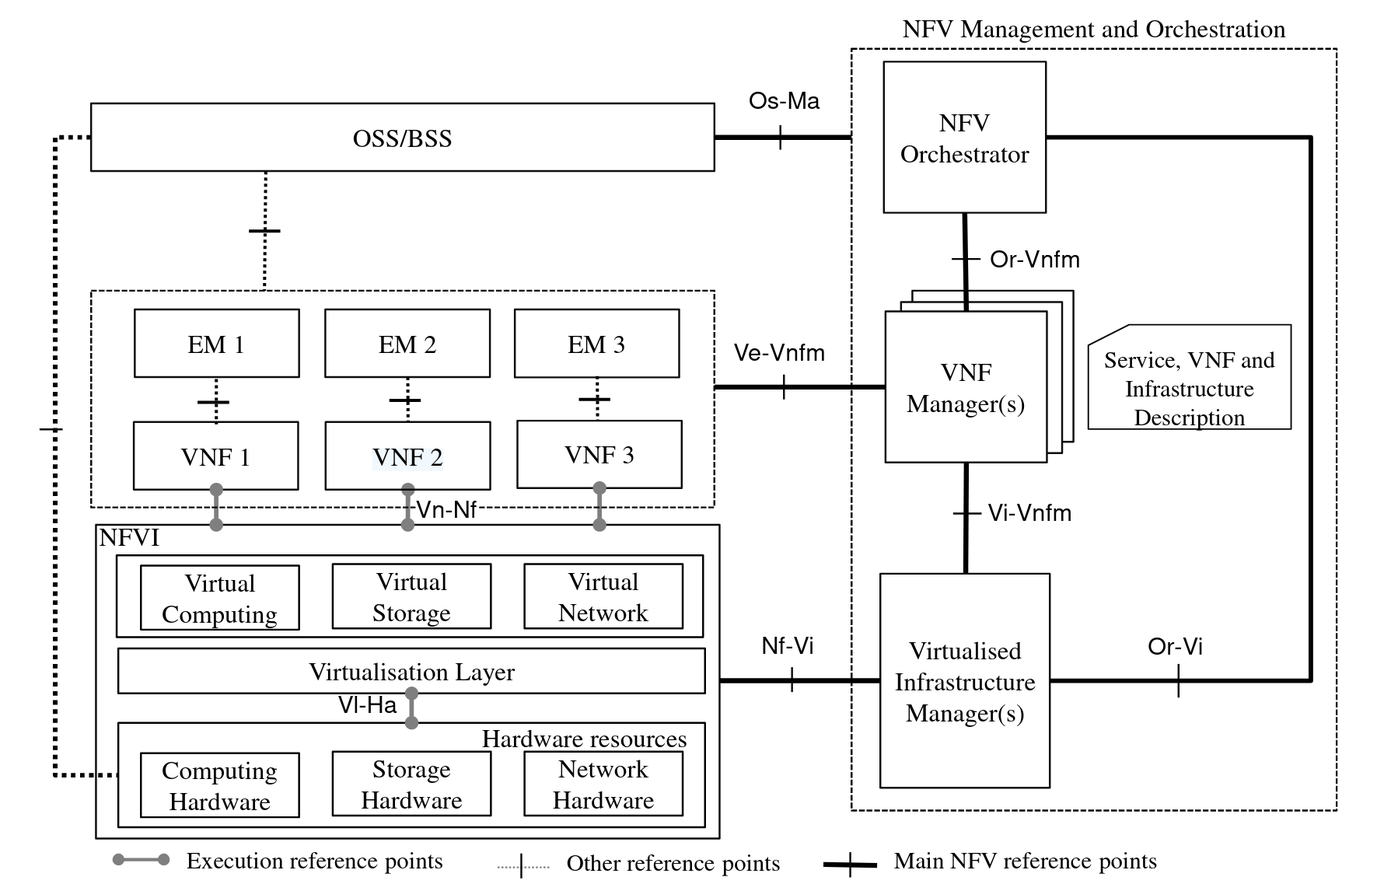
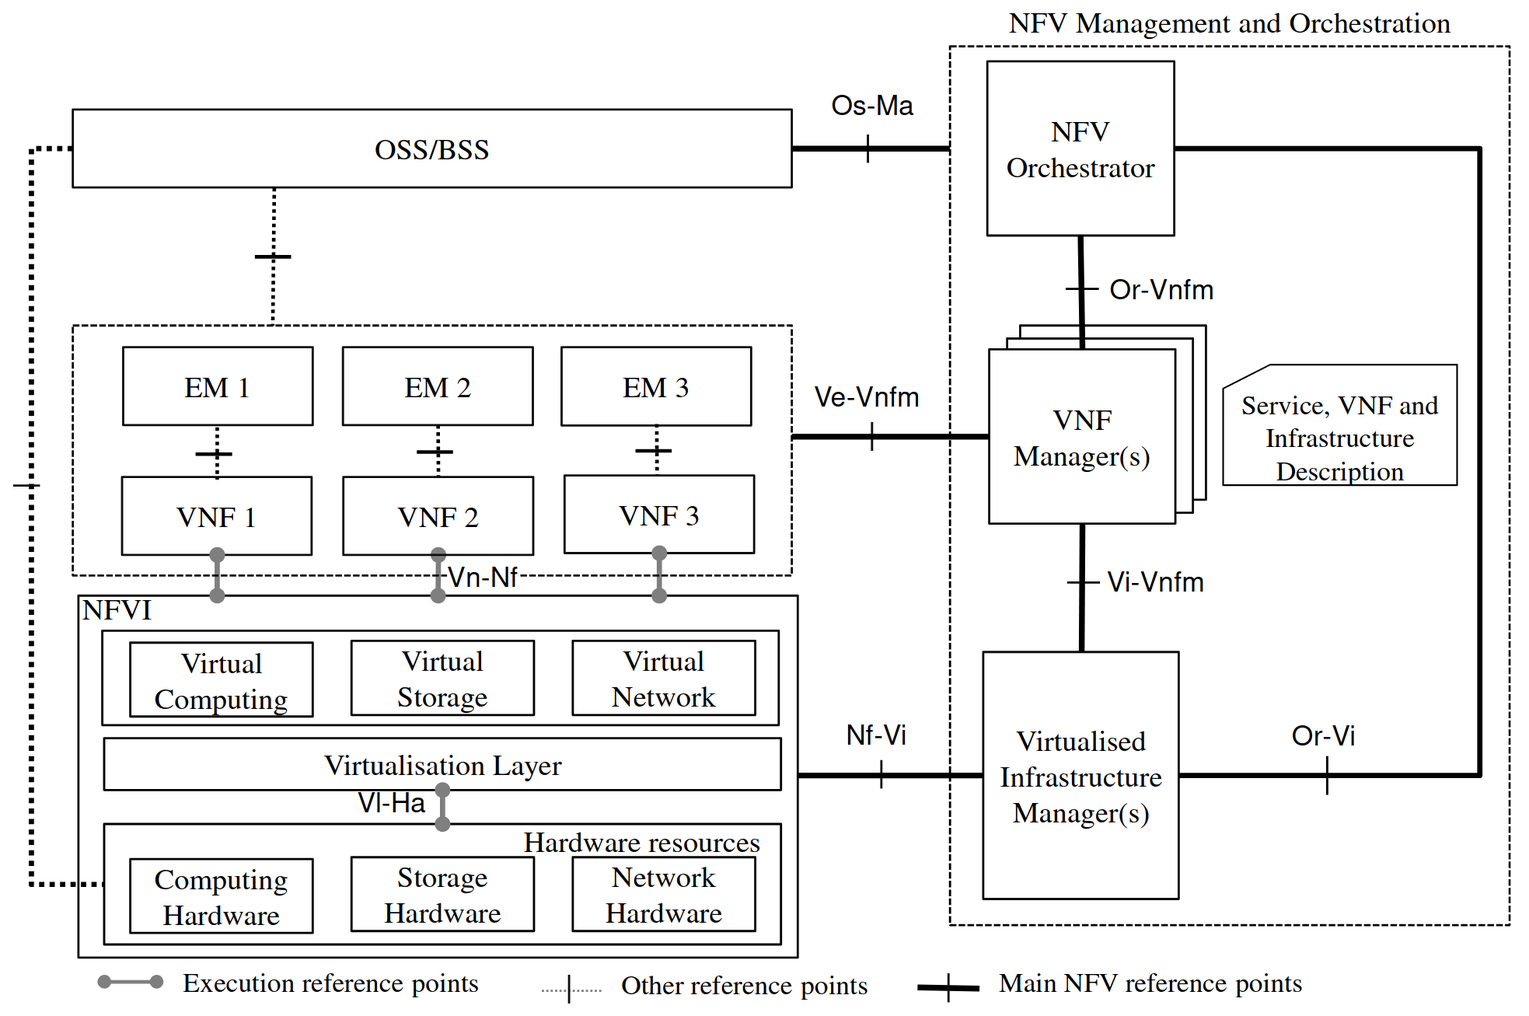
grind

Changed region(s): [[0.0, 0.0, 0.9888, 0.9773], [0.8343, 0.7024, 0.8961, 0.7635], [0.1545, 0.2443, 0.2163, 0.2749]]

diff --git a/chapters/chapter2.tex b/chapters/chapter2.tex
@@ -2,7 +2,7 @@
 \label{chap:background-key-enablers}
 
 \begin{introduction}
-This chapter introduces the key technologies underpinning this work. It begins with 5G networks and their architectural evolution toward 6G, then covers \ac{nfv} and \ac{sdn} as the programmability substrate, Network Slicing as the multi-service isolation mechanism, and \ac{mec} as the edge execution model. It closes with an overview of multi-domain federation and its open challenges.
+This chapter introduces the key technologies underpinning this work. It begins with 5G networks and their architectural evolution toward 6G, then covers \ac{nfv} and \ac{sdn} as the programmability facilitators, Network Slicing as the multi-service isolation mechanism, and \ac{mec} as the edge execution model. It closes with an overview of multi-domain federation and its open challenges.
 \end{introduction}
 
 % Edge deployments exist and have hard constraints (MEC)
@@ -21,14 +21,22 @@ This chapter introduces the key technologies underpinning this work. It begins w
 
 \section{5G Networks}
 
-Until \ac{5g}, each successive generation of mobile networks delivered incremental gains in throughput and reach while preserving the same fundamental paradigm: a purpose-built, hardware-centric network optimized for a single dominant use case. \ac{5g} breaks from this pattern. Rather than simply extending data rates, 5G was designed from the ground up as a programmable, multi-service platform capable of simultaneously serving heterogeneous vertical industries with vastly different performance requirements.
+Until \ac{5g}, each successive generation of mobile networks delivered incremental gains in throughput and reach while preserving the same fundamental paradigm: a purpose-built, hardware-centric network optimized for a single traffic type. 5G was designed from the ground up as a programmable, multi-service platform capable of simultaneously serving heterogeneous vertical industries with vastly different performance requirements, instead of simply aiming to increase throughput and extend data rates \cite{ZieglerArchitecturevision5Gera2016}.
 
 To address these diverse requirements, the ITU-R IMT-2020 framework defined three canonical usage scenarios: \ac{embb}, targeting peak data rates in the tens of gigabits per second; \ac{urllc}, targeting sub-millisecond latency and near-perfect reliability for mission-critical applications; and \ac{mmtc}, supporting connection densities of up to one million devices per square kilometer for \ac{iot} deployments \cite{IMTFrameworkoverallobjectivesfuturedevelopment2015}. The 5G system achieves this flexibility through the adoption of key enabling technologies such as \ac{nfv}, \ac{sdn}, Network Slicing, and \ac{mec}, that transform the network into a software-defined, service-based, distributed infrastructure \cite{HermosillaDeployment5GNetworkApplicationsMultidomain2022, antonyfranklin2020MultiaccessEdgeComputing}.
 
 % 5g arch
-Figure \ref{fig:5g_architecture} shows the reference architecture for the service-based architecture of the \ac{5g} core, where each function exposes REST-based \acp{api} over the Service-Based Interface. The upper functions belong to the control plane, while the bottom functions relate to the user plane.
+Figure \ref{fig:5g_architecture} shows the reference architecture for the service-based architecture of the \ac{5g} core, where each function exposes REST-based \acp{api} over the Service-Based Interface. The upper functions belong to the control plane, while the bottom functions relate to the user plane. 
 
-The most relevant network functions of the \ac{5g} core are as follows:
+\begin{figure}[ht]
+    \centering
+    \includegraphics[width=0.9\textwidth]{figs/02/5g-reference.png}
+    \caption{5G Core Service Based Architecture \cite{3GPP5GSystemarchitecture5GSystem2026}}
+    \label{fig:5g_architecture}
+\end{figure}
+
+The most relevant network functions of the \ac{5g} core are briefly described as follows \cite{3GPP5GSystemarchitecture5GSystem2026}:
+
 \begin{itemize}
     \item The \ac{upf} is responsible for user plane packet handling such as routing/forwarding, marking and \ac{qos} enforcing;
     \item The \ac{amf} manages registration, connection, mobility management and authorization and authentication;
@@ -43,13 +51,7 @@ The most relevant network functions of the \ac{5g} core are as follows:
     \item The \ac{af} represents external or operator applications which are able to interact with the \ac{5g} core via the \ac{nef}.
 \end{itemize}
 
-
-\begin{figure}[ht]
-    \centering
-    \includegraphics[width=0.8\textwidth]{figs/02/5g-reference.png}
-    \caption{5G Service Based Architecture \cite{3GPP5GSystemarchitecture5GSystem2026}}
-    \label{fig:5g_architecture}
-\end{figure}
+Complementing the core, the \ac{ran} is responsible for the radio interface between \acp{ue} and the network, handling wireless transmission, scheduling, and handover. In the 5G architecture, the \ac{ran} is realized by \acp{gnb}, which connect to the core via the NG interface and to one another via the Xn interface for mobility coordination \cite{3GPPNGRANArchitecturedescription}.
 
 \subsection{5G-Advanced and the 6G Vision}
 
@@ -71,15 +73,20 @@ The ITU-R defines six usage scenarios for IMT-2030, expanding upon the three sce
 \section{Network Functions Virtualization}
 
 % intro and driving factors
-Traditional network architectures relied heavily on proprietary hardware appliances for each specific function, such as firewalls, routers, and load balancers. These hardware-based solutions are not only costly but also inflexible, making it challenging to scale and adapt to dynamic network demands. 
+Traditional network architectures relied heavily on proprietary hardware appliances for each specific function, such as firewalls, routers, and load balancers. These hardware-based solutions are not only costly but also inflexible, making it challenging to scale and adapt to dynamic network demands \cite{ChiosiNetworkFunctionsVirtualisationIntroductionBenefits}. 
 
-\ac{nfv} allowed the transition from hardware-dependent network functions to virtualized software solutions. By leveraging virtualization techniques, \ac{nfv} allows for dynamic deployment of various network functions on \ac{cots} hardware as \acp{vnf}. This approach decouples the functions of the network from proprietary hardware, enabling them to run on standard servers, storage, and networking equipment.
+% core concept
+\ac{nfv} allowed the transition from hardware-dependent network functions to virtualized software solutions. By leveraging virtualization techniques, \ac{nfv} allows for dynamic deployment and lifecycle management of various network functions on \ac{cots} hardware as \acp{vnf}. This approach decouples the functions of the network from proprietary hardware, enabling them to run on standard servers, storage, and networking equipment.
 
+% advantages
 \ac{nfv} brings several advantages over hardware-centric approaches \cite{ETSINetworkFunctionsVirtualisationNFVArchitectural2014}. \acp{vnf} run on \ac{cots} hardware, eliminating dependency on proprietary appliances and reducing both capital and operational expenditure. Functions can be deployed, scaled, and relocated dynamically across geographically distributed sites, enabling a degree of flexibility that static hardware cannot match. Standardized, open interfaces promote a multi-vendor ecosystem where \acp{vnf} and infrastructure components from different providers can coexist, and the rapid instantiation of new services reduces time-to-market significantly.
 
-\subsection{NFV Reference Architecturxe}
+% cnf shoutout
+In the recent years, the dominant virtualization technologies have since shifted from hypervisor-managed virtual machines to containers orchestrated by platforms such as Docker\footnote{https://www.docker.com/} and Kubernetes\footnote{https://kubernetes.io/}, giving rise to \acp{cnf}: network functions decomposed into microservices and managed through cloud-native orchestration primitives. Container-based deployments offer lower per-instance overhead, faster startup times, and compatibility with \ac{cicd} deployment workflows \cite{ValantasisExperimentalEvaluationOrchestrationSoftwareVirtual2021}.
 
-Figure \ref{fig:nfv_reference_architecture} presents the \ac{etsi} \ac{nfv} reference architecture, which organises the framework into three top-level domains --- \acp{vnf}, \ac{nfvi}, and \ac{mano} --- and exposes the internal components that realise each. \acp{vnf} are software implementations of network functions that execute on \ac{nfvi} resources; the \ac{nfvi} encompasses the compute, storage, and networking hardware and software that host them. The \ac{mano} domain coordinates the lifecycle of both, and is itself subdivided into three building blocks:
+\subsection{NFV Reference Architecture}
+
+Figure \ref{fig:nfv_reference_architecture} presents the \ac{etsi} \ac{nfv} reference architecture, which organises the framework into three main domains: the \acp{vnf}, the \ac{nfvi}, and the \ac{mano}. \acp{vnf} are software implementations of network functions that execute on \ac{nfvi} resources; the \ac{nfvi} encompasses the compute, storage, and networking hardware and software that host them. The \ac{mano} domain coordinates the lifecycle of both \acp{vnf} and \ac{nfvi} resources, and is itself subdivided into three building blocks:
 
 \begin{itemize}
     \item \emph{\acp{vnfm}}: responsible for managing the lifecycle of \acp{vnf}, including instantiation, scaling, updating, and termination. It interacts with both the \ac{vim} and \ac{nfvo} to ensure the \ac{vnf} operates as intended within the \ac{nfv} infrastructure.
@@ -91,17 +98,18 @@ The other components of the framework are the \ac{oss}/\ac{bss}, which allows fo
 
 \begin{figure}[ht]
     \centering
-    \includegraphics[width=0.8\textwidth]{figs/02/nfv-reference.png}
+    \includegraphics[width=0.9\textwidth]{figs/02/nfv-reference.png}
     \caption{ETSI NFV reference architecture \cite{ETSINetworkFunctionsVirtualisationNFVArchitectural2014}}
     \label{fig:nfv_reference_architecture}
 \end{figure}
+
 
 
 \section{Software Defined Networking}
 
 In conventional network architectures, routing decisions, forwarding table computation, and policy enforcement are embedded within each device and managed independently through vendor-specific interfaces. With no global view of network state and per-device configuration as the only operational primitive, adapting to traffic demands or failures is slow and costly.
 
-\ac{sdn} addresses these limitations by decoupling the control plane, responsible for computing forwarding decisions and enforcing network-wide policies, from the data plane, responsible for packet forwarding. Network intelligence is consolidated in a logically centralized controller, which maintains a global view of the network topology and programs forwarding behavior across the infrastructure through standardized interfaces. This separation transforms the network into a programmable, software-driven resource that can be dynamically configured to meet changing service demands. By holding a consistent model of the full topology, the controller enables network-wide optimizations, such as coordinated policy enforcement, real-time flow rerouting, and automated provisioning, that are impractical when control is fragmented across independent devices . Furthermore, standardized southbound interfaces allow the controller to manage forwarding elements from heterogeneous vendors, and northbound \acp{api} expose network resources to higher-level orchestration systems, enabling tight coordination with complementary frameworks such as \ac{nfv}.
+\ac{sdn} addresses these limitations by decoupling the control plane, responsible for computing forwarding decisions and enforcing network-wide policies, from the data plane, responsible for packet forwarding. Network intelligence is consolidated in a logically centralized controller, which maintains a global view of the network topology and programs forwarding behavior across the infrastructure through standardized interfaces. This separation transforms the network into a programmable, software-driven resource that can be dynamically configured to meet changing service demands. By holding a consistent model of the full topology, the controller enables network-wide optimizations, such as coordinated policy enforcement, real-time flow rerouting, and automated provisioning, that are impractical when control is fragmented across independent devices. Furthermore, standardized southbound interfaces allow the controller to manage forwarding elements from heterogeneous vendors, and northbound \acp{api} expose network resources to higher-level orchestration systems, enabling tight coordination with complementary frameworks such as \ac{nfv}.
 
 Beyond these core properties, \ac{sdn} enables:
 \begin{itemize}
@@ -138,6 +146,13 @@ The heterogeneous nature of 5G use cases imposes a fundamental tension on networ
 
 A network slice is an end-to-end logical network instance comprising a set of network functions and associated resources (compute, storage, and transport) configured and isolated to satisfy the specific \acp{kpi} of a given service or customer vertical. Each slice spans the full network stack, from the \ac{ran} through the transport domain to the 5G core, and is defined by a \ac{nst}, which captures the performance targets, resource budgets, and topology constraints that govern instantiation and operation. Slices are isolated from one another across the data, control, and management planes, ensuring that faults and congestion within one slice cannot propagate to others.
 
+\begin{figure}[ht]
+    \centering
+    % \includegraphics[width=0.85\textwidth]{figs/02/network-slicing-concept.pdf}
+    \caption{Network slicing concept: multiple isolated logical networks over shared physical infrastructure, enabled by \ac{nfv} (per-slice \ac{vnf} instances) and \ac{sdn} (per-slice flow isolation).}
+    \label{fig:network_slicing_concept}
+\end{figure}
+
 From an operational standpoint, slicing yields several properties that a monolithic design cannot provide \cite{3GPP5GSystemarchitecture5GSystem2026}:
 \begin{itemize}
     \item \emph{Logical Isolation}: Each slice operates as an independent network instance, ensuring that traffic, faults, and resource contention within one slice do not affect others;
@@ -147,7 +162,7 @@ From an operational standpoint, slicing yields several properties that a monolit
     \item \emph{Efficient Resource Utilization}: Resources can be dynamically allocated and reallocated across slices according to demand, improving overall infrastructure efficiency compared to statically partitioned, purpose-built networks.
 \end{itemize}
 
-Network slicing is not an independent abstraction but is technically realized through the joint application of \ac{nfv} and \ac{sdn}. \ac{nfv} provides the virtualization substrate that enables per-slice network function instances to be created, configured, and terminated on shared \ac{cots} hardware. Without \ac{nfv}, deploying independent function sets per slice would require dedicated physical appliances for each service type, negating the shared-infrastructure principle that slicing depends upon. The \ac{nfvo} and \ac{vnfm} components of the \ac{mano} framework orchestrate the lifecycle of these per-slice \acp{vnf}, while the \ac{vim} allocates and tracks the compute, storage, and networking resources budgeted to each slice instance.
+Network slicing is not an independent abstraction but is technically realized through the joint application of \ac{nfv} and \ac{sdn}. \ac{nfv} provides the virtualization layer that enables per-slice network function instances to be created, configured, and terminated on shared \ac{cots} hardware. Without \ac{nfv}, deploying independent function sets per slice would require dedicated physical appliances for each service type, negating the shared-infrastructure principle that slicing depends upon. The \ac{nfvo} and \ac{vnfm} components of the \ac{mano} framework orchestrate the lifecycle of these per-slice \acp{vnf}, while the \ac{vim} allocates and tracks the compute, storage, and networking resources budgeted to each slice instance.
 
 \ac{sdn} complements this by enforcing per-slice traffic isolation and steering in the data plane. The \ac{sdn} controller programs forwarding rules that segregate slice-specific flows across the shared physical underlay, and enforces policies that prevent cross-slice interference at the transport layer. This mechanism extends the control/data plane separation already present in the 5G core (where the \ac{smf} programs the \ac{upf} via the N4 interface) to an end-to-end scope spanning the \ac{ran}, transport, and core simultaneously.
 
@@ -155,9 +170,9 @@ Together, \ac{nfv} governs the function plane (instantiation, scaling, and termi
 
 \begin{figure}[ht]
     \centering
-    % \includegraphics[width=0.85\textwidth]{figs/02/network-slicing-concept.pdf}
-    \caption{Network slicing concept: multiple isolated logical networks over shared physical infrastructure, enabled by \ac{nfv} (per-slice \ac{vnf} instances) and \ac{sdn} (per-slice flow isolation).}
-    \label{fig:network_slicing_concept}
+    % \includegraphics[width=0.85\textwidth]{figs/02/network-slicing-management.pdf}
+    \caption{Network slicing management}
+    \label{fig:network_slicing_management}
 \end{figure}
 
 \subsection{Network Slicing Architecture}
@@ -175,7 +190,7 @@ Slice selection is handled at registration time. The \ac{ue} includes a requeste
 
 An end-to-end \ac{nsi} is composed of multiple \acp{nssi}, one per network domain - \ac{ran}, transport and core. The \ac{ran} sub-slice configures the radio resources and \ac{ran} functions assigned to the slice; the transport sub-slice establishes the connectivity between the \ac{ran} and the core; the core sub-slice instantiates the relevant 5G core network functions with the appropriate configurations and policies. Sub-slices may be shared across multiple \acp{nsi} where isolation requirements permit, enabling more efficient use of underlying resources.
 
-The lifecycle of a network slice spans five phases: preparation, in which the \ac{nst} is onboarded and feasibility is verified; instantiation, in which the constituent \acp{nssi} are created and configured; activation, in which the slice begins carrying live traffic; operation, in which the slice is continuously monitored and dynamically adapted to changing demand; and decommissioning, in which the slice is gracefully terminated and its resources released. Lifecycle management is coordinated between the \ac{nsmf} and the domain-specific \ac{nssmf} instances, following the interface specifications defined in 3GPP TS 28.530 \cite{3GPP5GProcedures5GSystem5GS2026}.
+The lifecycle of a network slice spans five phases: preparation, in which the \ac{nst} is onboarded and feasibility is verified; instantiation, in which the constituent \acp{nssi} are created and configured; activation, in which the slice begins carrying live traffic; operation, in which the slice is continuously monitored and dynamically adapted to changing demand; and decommissioning, in which the slice is gracefully terminated and its resources released. Lifecycle management is coordinated between the \ac{nsmf} and the domain-specific \ac{nssmf} instances, following the interface specifications defined in 3GPP TS 28.530 \cite{3GPP5GManagementorchestrationConceptsuse2026}.
 
 
 \section{Multi-access Edge Computing}
@@ -202,7 +217,7 @@ The reference architecture for \ac{mec}, as defined by \ac{etsi} in MEC GS 003 \
     \label{fig:mec_reference_architecture}
 \end{figure}
 
-The \ac{meh} comprises two co-located components: the \ac{mep} and the \ac{vi}. The \ac{vi} provides the compute, storage, and networking substrate on which \ac{mec} applications execute, and includes a data plane responsible for enforcing traffic rules and routing flows among applications, services, and external networks. The \ac{mep} operates above the \ac{vi}, providing the service environment through which applications discover and consume \ac{mec} services, register their resource requirements, and interact with the broader network. Specifically, the \ac{mep} manages traffic rules, configures \ac{dns}, and hosts platform-level services such as location and radio network information.
+The \ac{meh} comprises two co-located components: the \ac{mep} and the \ac{vi}. The \ac{vi} provides the compute, storage, and networking resources on which \ac{mec} applications execute, and includes a data plane responsible for enforcing traffic rules and routing flows among applications, services, and external networks. The \ac{mep} operates above the \ac{vi}, providing the service environment through which applications discover and consume \ac{mec} services, register their resource requirements, and interact with the broader network. Specifically, the \ac{mep} manages traffic rules, configures \ac{dns}, and hosts platform-level services such as location and radio network information.
 
 \ac{mec} applications execute as virtualized entities (containers or virtual machines) within the \ac{meh}. Their interaction with the \ac{mep} and with one another is governed by three reference points: Mp1 connects applications to the \ac{mep}, enabling service registration and discovery, traffic rule activation, and session state relocation in response to mobility events; Mp2 connects the \ac{mep} to the \ac{vi} data plane, allowing the platform to steer traffic flows among applications, services, and external interfaces; Mp3 enables inter-platform communication between \ac{mep} instances on separate hosts, supporting coordinated service delivery across distributed deployments.
 
@@ -214,7 +229,7 @@ These management functions interact through a set of Mm reference points. Mm1 co
 
 \ac{mec} does not operate in isolation from the enabling technologies described in the preceding sections; rather, it builds directly on \ac{nfv}, \ac{sdn}, and network slicing to deliver its edge execution model \cite{DouchEdgeComputingTechnologyEnablersSystematic2022}.
 
-The \ac{vi} within each \ac{meh} is, in architectural terms, an instance of the \ac{nfv} infrastructure deployed at the network edge. \ac{mec} applications execute as virtualized entities, such as virtual machines or containers, managed by a \ac{vim} that is functionally equivalent to its \ac{nfv}-\ac{mano} counterpart. The lifecycle procedures carried out by the \ac{mepm} and \ac{meo}, like application onboarding, instantiation, scaling, relocation, and termination, directly mirror the \ac{vnfm} and \ac{nfvo} procedures defined by the \ac{etsi} \ac{nfv} framework, with the addition of mobility-driven relocation as an edge-specific operational requirement.
+The \ac{vi} within each \ac{meh} is, in architectural terms, an instance of the \ac{nfv} infrastructure deployed at the network edge. \ac{mec} applications execute as virtualized entities, such as virtual machines or containers, managed by a \ac{vim} that is functionally equivalent to its \ac{nfv}-\ac{mano} counterpart. The lifecycle procedures carried out by the \ac{mepm} and \ac{meo}, like application onboarding, instantiation, scaling, relocation, and termination, directly mirror the \ac{vnfm} and \ac{nfvo} procedures defined by \ac{etsi} \ac{nfv} framework, with the addition of mobility-driven relocation as an edge-specific operational requirement.
 
 \ac{sdn} underpins the traffic steering that directs flows from \acp{ue} or from the core network to the appropriate \ac{mec} application. The Mp2 reference point between the \ac{mep} and the \ac{vi} data plane functions as a southbound control interface: the \ac{mep} installs traffic rules that redirect specific flows to registered application endpoints on the host. At a larger scale, \ac{sdn} controllers operating at the transport layer can steer \ac{ue} traffic toward the nearest or most appropriate \ac{mec} host as users move across the coverage area, enabling network-wide traffic management that complements the host-local rule enforcement provided by Mp2.
 

diff --git a/acronyms.tex b/acronyms.tex
@@ -15,12 +15,13 @@
 	\acro{api}[API]{Application Prgramming Interface}
 	\acro{gs}[GS]{Group Specification}
 	\acro{ai}[AI]{Artificial Intelligence}
+	\acro{cicd}[CI/CD]{Continuous Integration/Continuous Deployment}
 	\acro{ml}[ML]{Machine Learning}
 	\acro{v2x}[V2X]{Vehicle-to-Everything}
 	
 	\acro{etsi}[ETSI]{European Telecommunications Standards Institute}
 	\acro{3gpp}[3GPP]{3rd Generation Partnership Project}
-	\acro{gsma}[GSMA]{Global }
+	\acro{gsma}[GSMA]{Global System for Mobile Communications Association}
 
 	\acro{5g}[5G]{5th Generation}
 	\acro{6g}[6G]{6th Generation}
@@ -46,10 +47,12 @@
 	\acro{af}[AF]{Application Function}
 	\acro{ue}[UE]{User Equipment}
 	\acro{ran}[RAN]{Radio Access Network}
+	\acro{gnb}[gNB]{Next Generation Node B}
 	\acro{pdu}[PDU]{Protocol Data Unit}
 	
 	\acro{nfv}[NFV]{Network Functions Virtualization}
 	\acro{vnf}[VNF]{Virtual Network Function}
+	\acro{cnf}[CNF]{Cloud-native Network Function}
 	\acro{oss}[OSS]{Operation Support System}
 	\acro{bss}[BSS]{Business Support System}
 	\acro{ems}[EMS]{Element Management System}
@@ -79,7 +82,6 @@
 	\acro{meao}[MEAO]{MEC Application Orchestrator}
 	\acro{vi}[VI]{Virtual Infrastructure}
 	\acro{vim}[VIM]{Virtual Infrastructure Manager}
-	\acro{vi}[VI]{Virtual Infrastructure}
 	\acro{cfs}[CFS]{Customer Facing Portal}
 
 	\acro{ewbi}[EWBI]{East-West Bound Interface}
